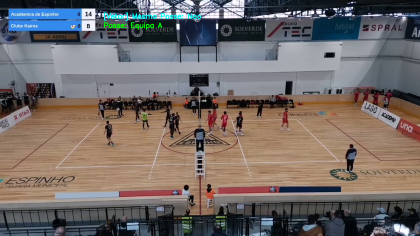
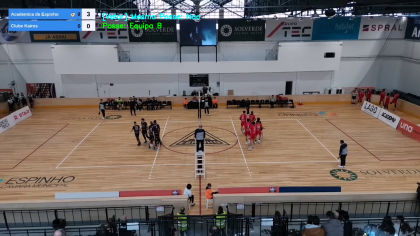
estatisticas

diff --git a/config.py b/config.py
@@ -20,7 +20,8 @@ class Config:
     event_store_file: Path = Path("outputs/volleyball_events.json")
 
     # Time window (absolute timestamps in the video)
-    start_ts: str = "00:37:12"
+    # start_ts: str = "00:37:12"
+    start_ts: str = "00:27:21"
     end_ts: str = "00:46:17"
 
     # Models
